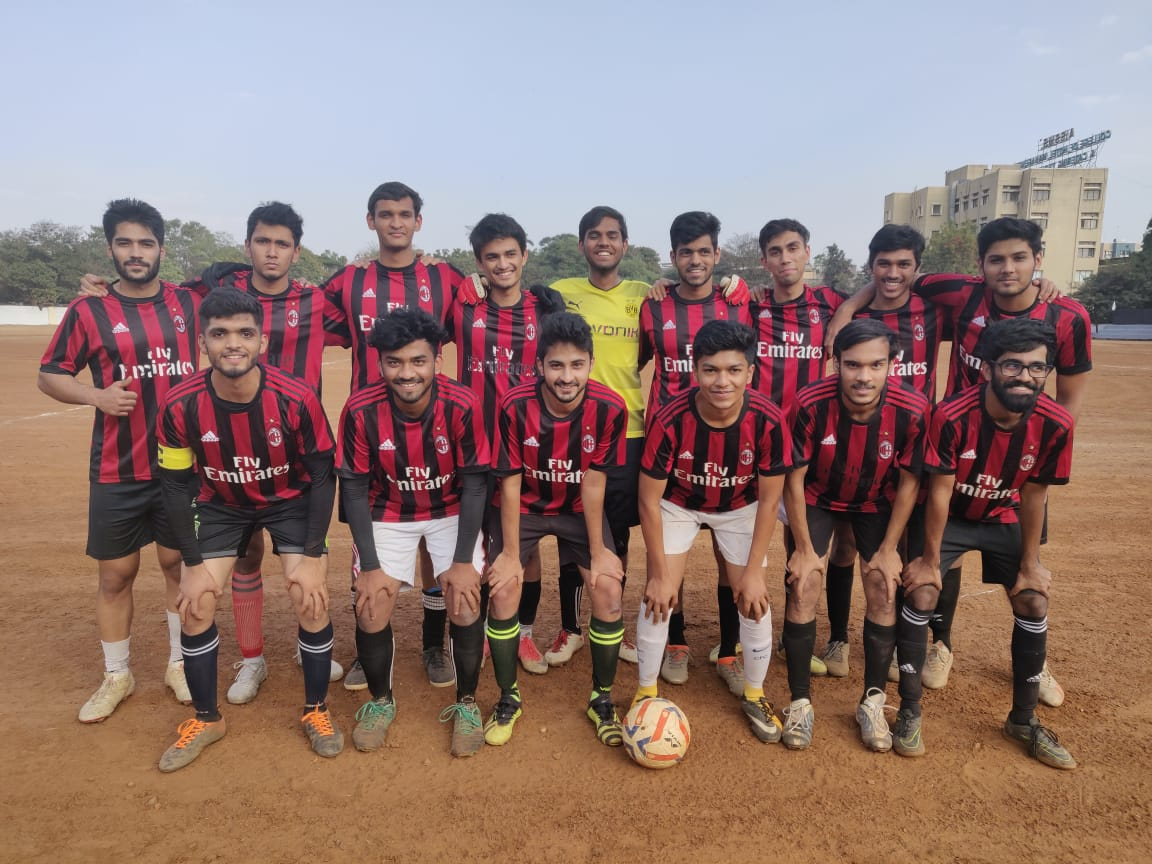
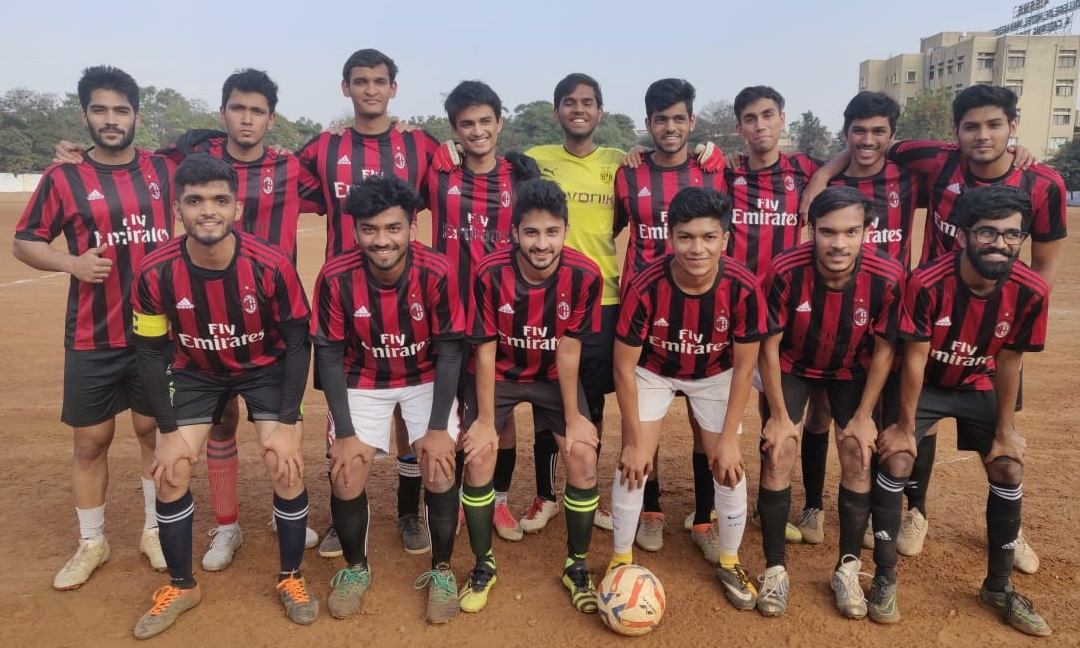
added carousel

diff --git a/other.html b/other.html
@@ -5,7 +5,9 @@
   
   <meta name="author" content="Ashwin Sapre">
   <meta name="viewport" content="width=device-width, initial-scale=1">
-  
+  <link rel="stylesheet" href="https://maxcdn.bootstrapcdn.com/bootstrap/3.4.1/css/bootstrap.min.css">
+  <script src="https://ajax.googleapis.com/ajax/libs/jquery/3.5.1/jquery.min.js"></script>
+  <script src="https://maxcdn.bootstrapcdn.com/bootstrap/3.4.1/js/bootstrap.min.js"></script>
   <link rel="stylesheet" type="text/css" href="stylesheet.css">
   <link rel="icon" type="image/png" href="images/seal_icon.png">
 </head>
@@ -34,13 +36,13 @@
             </td>
           </tr>
         </tbody></table>
-        <table style="width:100%;max-width:800px;border:0px;border-spacing:0px;border-collapse:separate;margin-right:auto;margin-left:auto;"><tbody>
+        <table style="width:100%;border:0px;border-spacing:0px;border-collapse:separate;margin-right:auto;margin-left:auto;"><tbody>
             <tr>
             <td style="padding:20px;width:100%;vertical-align:middle">
             </td>
           </tr>
         </tbody></table>
-        <table style="width:100%;max-width:800px;border:0px;border-spacing:0px;border-collapse:separate;margin-right:auto;margin-left:auto;"><tbody>
+        <table style="width:100%;border:0px;border-spacing:0px;border-collapse:separate;margin-right:auto;margin-left:auto;"><tbody>
           <tr style="padding:10px;width:100%;vertical-align:middle">
               <papertitle>Football (Soccer) </papertitle>
               <br>
@@ -50,12 +52,33 @@
           </tr>
           <tr>
             <td>
-                <img style="padding:5px;width:40%;vertical-align:middle" src='images/pft20.jpeg' width="400">
-                <img style="padding:5px;width:50%;vertical-align:middle" src='images/pft18.jpeg' width="400">
+                <div id="myCarousel" class="carousel slide" data-ride="carousel">
+                  <ol class="carousel-indicators">
+                    <li data-target="#myCarousel" data-slide-to="0" class="active"></li>
+                    <li data-target="#myCarousel" data-slide-to="1"></li>
+                  </ol>
+                  <div class="carousel-inner">
+                    <div class="item active">
+                      <img src="images/pft18.jpeg" alt="College Football Team 2018">
+                    </div>
+
+                    <div class="item">
+                      <img src="images/pft20.jpeg" alt="College Football Team 2020">
+                    </div>
+                  </div>
+                  <a class="left carousel-control" href="#myCarousel" data-slide="prev">
+                    <span class="glyphicon glyphicon-chevron-left"></span>
+                    <span class="sr-only">Previous</span>
+                  </a>
+                  <a class="right carousel-control" href="#myCarousel" data-slide="next">
+                    <span class="glyphicon glyphicon-chevron-right"></span>
+                    <span class="sr-only">Next</span>
+                  </a>
+                </div>
             </td>
           </tr>
-          <tr onmouseout="nerd_stop()" onmouseover="nerd_start()">
-            <td style="width:80%; padding: 20px">
+          <tr style="padding:10px;width:100%;vertical-align:middle">
+            <td style="width:80%; padding: 20px; vertical-align:middle">
               <papertitle>Running</papertitle>
               <br>
               <p>
@@ -63,7 +86,7 @@
               </p>
             </td>
            </tr>
-         <tr>
+         <tr style="padding:10px;width:100%;vertical-align:middle">
            <td>
               <iframe height='455' width='590' frameborder='0' allowtransparency='true' scrolling='no' src='https://www.strava.com/activities/3023483906/embed/80a306831d465a74320eac48d52ef2009ea84ba6'></iframe>
             </td>
